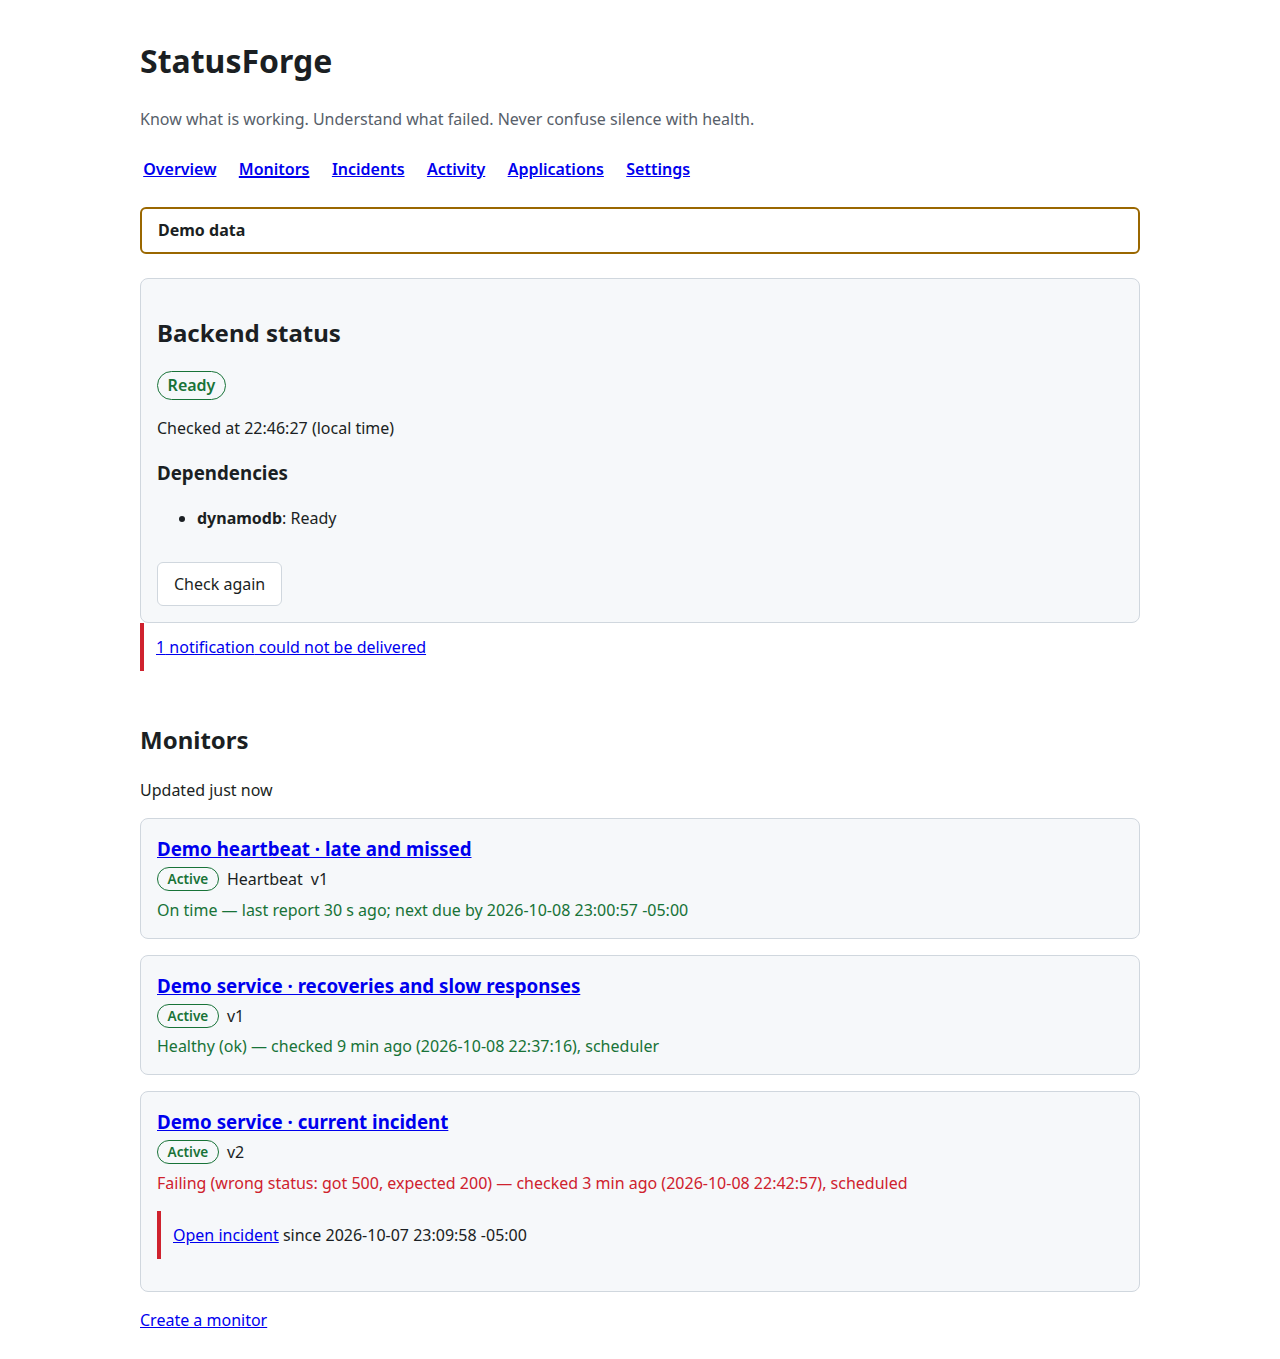
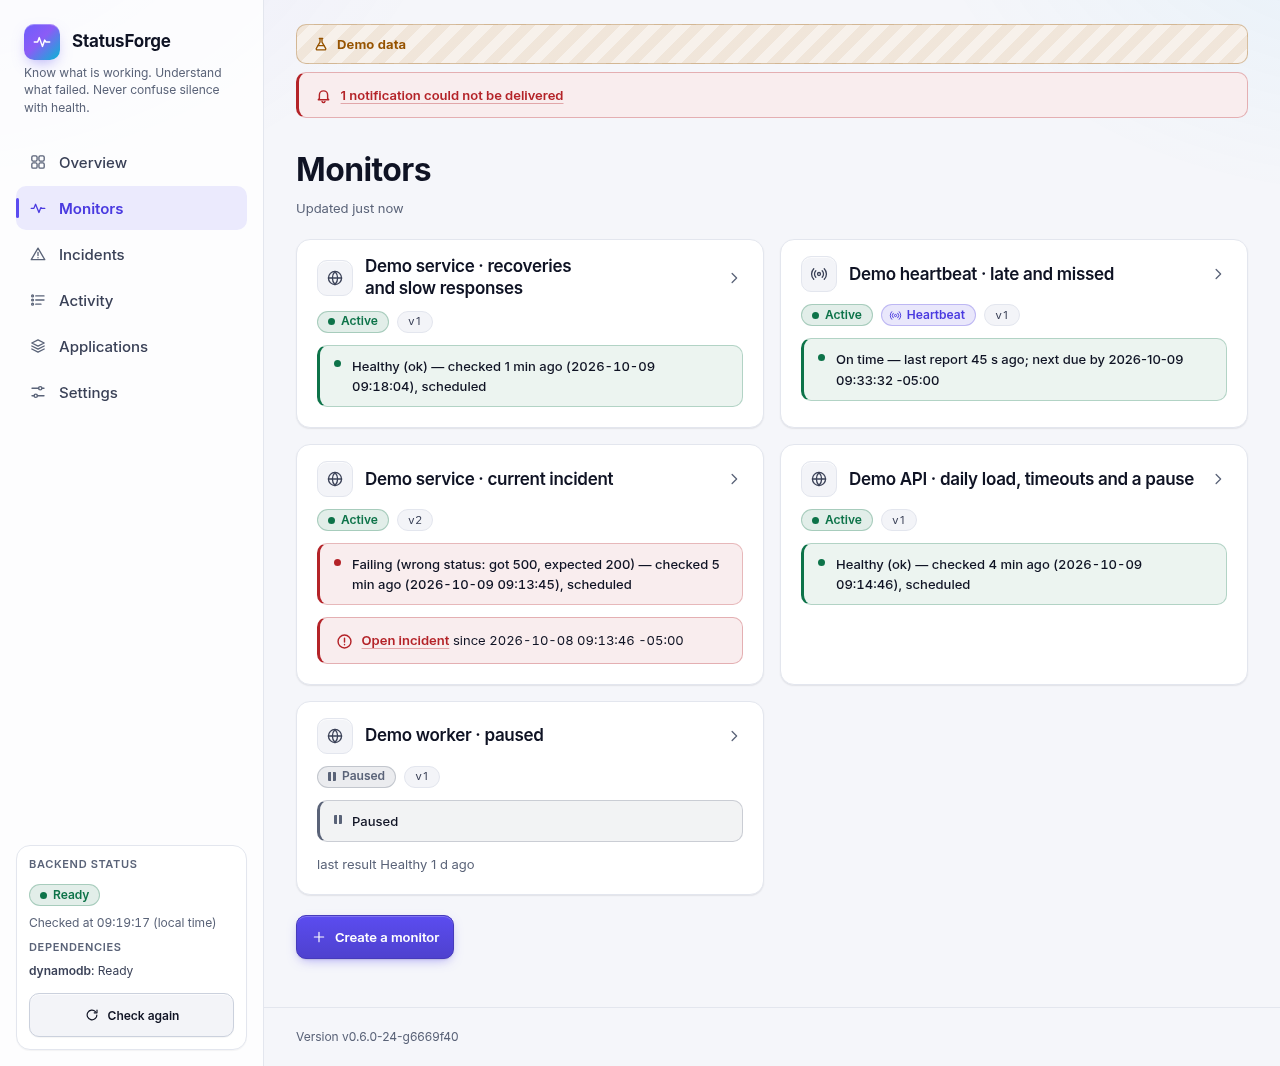
docs: refresh every screenshot and widen the gallery
Twenty captures of the new demo scene on the restyled client: the overview in
light and dark, monitor and incident detail, six distinct status and
response-time charts, monitors, heartbeat, incidents, a retried notification,
the application summary, the table view, a dark monitor summary, and three
390 px pages. The changelog records the web, demo and toolchain changes.

diff --git a/README.md b/README.md
@@ -15,7 +15,10 @@ report that period as healthy. Every scheduled check is a durable row that ends 
 an explicit **gap**; summaries count slots, not wall-clock time; "we did not hear from the job" is kept
 apart from "the job did not run". The [engineering notes](docs/engineering.md) walk through how.
 
-![Overview: a receive gap, an open incident, and a failed notification, all shown as what they are](docs/images/overview.png)
+<picture>
+  <source media="(prefers-color-scheme: dark)" srcset="docs/images/overview-dark.png">
+  <img src="docs/images/overview.png" alt="Overview: a receive gap, an open incident and a failed notification, each shown as what it is">
+</picture>
 
 ## Capabilities and boundaries
 
@@ -41,9 +44,12 @@ make setup   # .env from .env.example, Go modules, npm ci
 make demo    # seeds a separate demo table and runs UI + API + fixtures at http://127.0.0.1:8080/
 ```
 
-The demo shows seven days of synthetic history: healthy, failing and slow periods, a coverage gap, open and
-resolved incidents, delivered and failed notifications, a maintenance window, a heartbeat with late and
-missed reports, and an application with deployment markers. Every page carries a **Demo data** banner.
+The demo seeds seven days of synthetic history for one application with five monitors: three HTTP services with
+their own response-time profiles (a daily load cycle, spikes, a slow period), a worker that is paused now, and a
+heartbeat with irregular late and missed reports. It includes a resolved incident whose recovery notice the
+receiver rejected, an open incident after a deployment with its reminders, a maintenance window with a planned
+restart, isolated failures and timeouts below the incident threshold, a checker-problem burst, a paused span, and
+a coverage gap. A fixed seed makes every run look the same, and every page carries a **Demo data** banner.
 
 For your own data:
 
@@ -57,47 +63,57 @@ for the walkthrough, every configuration variable, and the heartbeat and deploym
 
 | Monitor detail with 7-day summary | Incident with notification history |
 | --- | --- |
-| ![Monitor detail](docs/images/monitor-detail.png) | ![Incident detail](docs/images/incident-detail.png) |
+| ![Seven-day summary of the demo API: 98 % of expected checks recorded, isolated failures, checker problems, a not-observed gap, a labelled paused span, and a response-time cycle below the 1200 ms check deadline](docs/images/monitor-detail.png) | ![Open incident after a deployment: opening evidence, failure summary, the nearby demo-2 deployment shown as context, and the opened notice and four reminders, all delivered](docs/images/incident-detail.png) |
 
 <details>
-<summary><strong>More screenshots</strong> (12): status windows and response times, monitors and heartbeats, incidents and notifications, applications, accessible tables, mobile</summary>
+<summary><strong>More screenshots</strong> (16): status history and response time, monitors and heartbeats, incidents and notifications, applications, accessible tables, dark scheme, narrow screens</summary>
 
 All captures show the built-in demo data (`make demo`).
 
-#### Status windows and response times
+#### Status history and response time
 
-![Seven-day status history of a demo HTTP monitor in 6-hour buckets: mostly healthy, with failing checks, a maintenance window and not-observed slots](docs/images/status-history-7d.png)
+![Seven-day status history of a demo HTTP monitor in 6-hour buckets: a three-hour incident, isolated failures, a not-observed gap and a maintenance window](docs/images/status-history-7d.png)
 
-![24-hour status history of a demo HTTP monitor in 1-hour buckets during an open incident: every bucket failing](docs/images/status-history-24h.png)
+![24-hour status history of the monitor with the open incident, in 1-hour buckets: every check failing](docs/images/status-history-24h.png)
 
-![Seven-day response-time chart with maximum and median lines: a 2.2 s spike in maximum response time, below the 3000 ms check deadline](docs/images/response-time-7d.png)
+![24-hour status history of the demo API: a shaded, labelled paused span with no expected checks, and one failed check](docs/images/status-history-paused-24h.png)
+
+![Seven-day response time with median and maximum lines: a 2.5 s spike in maximum response time, below the 3000 ms check deadline](docs/images/response-time-7d.png)
+
+![24-hour response time of the demo API: a rising and falling load cycle, with both lines broken while the monitor was paused](docs/images/response-time-24h.png)
+
+![Seven-day status history of a worker monitor created mid-week and paused a day later: checks between creation and the pause, then a labelled paused span](docs/images/paused-worker-7d.png)
 
 #### Monitors and heartbeats
 
-![Monitors list: an on-time heartbeat, a healthy HTTP monitor, and a failing HTTP monitor linked to its open incident](docs/images/monitors.png)
+![Monitors list: two healthy HTTP monitors, a failing one linked to its open incident, a paused worker, and an on-time heartbeat](docs/images/monitors.png)
 
-![Seven-day summary of a demo heartbeat: expected deadlines counted as on time, late or missed, with three late and three missed reports in the status history](docs/images/heartbeat-summary-7d.png)
+![Seven-day summary of the demo heartbeat: every expected deadline recorded, 680 on time, 22 late and 6 missed](docs/images/heartbeat-summary-7d.png)
 
 #### Incidents and notifications
 
-![Incidents page: an open incident, a resolved incident, and a failed notification that needs attention](docs/images/incidents.png)
+![Incidents page: an open incident with five delivered notifications, a resolved incident, and a failed notification that needs attention](docs/images/incidents.png)
 
-![Notifications of a resolved incident: the opened notification delivered; the resolved notification rejected with HTTP 400, then delivered by a manual retry](docs/images/notification-retry.png)
+![Notifications of a resolved incident: the opened notice delivered; the resolved notice rejected with HTTP 400, then delivered by a manual retry](docs/images/notification-retry.png)
 
 #### Applications
 
-![Demo application summary: three member monitors with their current health, one open incident, and the last recorded deployment](docs/images/application-summary.png)
+![Demo application summary: five member monitors with their current health (healthy, failing or paused), one open incident, and the last deployment marker](docs/images/application-summary.png)
 
 #### Accessible tables
 
-![Status history shown as a table instead of a chart: per-bucket expected, recorded, healthy, failing, checker-problem, not-observed, maintenance, not-counted, paused and receive-outage columns](docs/images/status-history-table.png)
+![Status history shown as a table instead of a chart: per-bucket expected, recorded, healthy, failing, checker-problem, not-observed, maintenance and not-counted counts, including a failing bucket and a checker-problem bucket](docs/images/status-history-table.png)
 
-#### Mobile (390 CSS px)
+#### Dark scheme
+
+![Seven-day monitor summary in the dark scheme: status bars with an incident, a maintenance window and a not-observed gap, and a response-time spike](docs/images/monitor-detail-dark.png)
+
+#### Narrow screens (390 CSS px)
 
 <p>
-<img src="docs/images/overview-mobile.png" alt="Overview on mobile: the Demo data banner, a StatusForge was not receiving gap, an open incident and a failed notification" width="260">
-<img src="docs/images/monitor-summary-mobile.png" alt="Seven-day monitor summary on mobile, with status-history and response-time charts" width="260">
-<img src="docs/images/incidents-mobile.png" alt="Incidents on mobile: open and resolved incidents and a failed notification" width="260">
+<img src="docs/images/overview-mobile.png" alt="Overview at 390 px: navigation, backend status, the Demo data banner, a receive gap, an open incident and a failed notification" width="260">
+<img src="docs/images/monitor-summary-mobile.png" alt="Seven-day summary of the failing monitor at 390 px, with status-history and response-time charts" width="260">
+<img src="docs/images/incidents-mobile.png" alt="Incidents at 390 px: open and resolved incidents and a failed notification" width="260">
 </p>
 
 </details>
@@ -181,3 +197,6 @@ Makefile            Every developer entry point (make help)
 
 Stack: Go 1.27 (stdlib HTTP, `aws-sdk-go-v2` DynamoDB client), React 19 + TypeScript + Vite + Recharts,
 DynamoDB Local 3.3.1, AWS CDK (synthesis only). MIT [LICENSE](LICENSE).
+
+The UI bundles the [Inter](https://github.com/rsms/inter) typeface by The Inter Project Authors under the SIL Open
+Font License 1.1 ([licence text](web/public/fonts/Inter-LICENSE.txt)).

diff --git a/CHANGELOG.md b/CHANGELOG.md
@@ -2,6 +2,41 @@
 
 ## Unreleased
 
+### Web client
+
+- The web client is restyled in light and dark schemes with a layered design system: design tokens and cascade
+  layers, a sidebar shell (a top header below 1024 px, a navigation grid below 520 px), card headers with icons,
+  tone rails, shape-coded state pills, and tables that stack on small screens. A "Skip to content" link moves focus
+  to the page heading. Wording, roles and behaviour are unchanged. Icons are self-authored inline SVG.
+- The monitor summary gets a segmented window control and a stat strip above the unchanged sentences. Its charts
+  gain patterned stacked status bars, labelled outage and paused bands, a latency chart with a gradient median
+  area, an isolated-point marker and a labelled check deadline, and token-coloured tooltips. The chart code is
+  still a separate lazy chunk.
+- Summary charts shade a paused span and a touching receive outage separately, each in its own tone with its own
+  "Paused" or "Outage" label. They were merged into one outage-coloured "Outage + pause" band, which painted paused
+  time as an outage. Band labels now stack in rows, so nearby labels never cover each other or the check-deadline
+  label.
+- The UI bundles the Inter variable font (`@fontsource-variable/inter`, SIL Open Font License 1.1) as same-origin
+  woff2 files, so it renders the same on every OS. Vite never inlines font files, so the CSP's `font-src 'self'`
+  holds. The licence text ships at `/fonts/Inter-LICENSE.txt`, and `licence-exceptions.json` records the reasoned
+  `OFL-1.1` exception.
+
+### Demo
+
+- `make demo` seeds a varied week: five monitors in one application, per-service response-time profiles with daily
+  cycles and spikes, isolated failures and timeouts below the incident threshold, a checker-problem burst, a past
+  pause, a worker that is paused now, and irregular late and missed heartbeats. A fixed seed keeps the scene the
+  same on every run, and the seed fails unless its self-check finds every feature. Seeded error responses carry the
+  checker's own `wrong_status` reason, so they count as latency samples, as live ones do. The open incident gets
+  its reminders as the live scheduler would send them (every 6 h by default). Seeding takes about four and a half
+  minutes.
+- The README shows twenty new captures of that scene, including dark-scheme and 390 px views.
+
+### Toolchain
+
+- Local setup asks for the newest Go 1.27 patch, the one CI installs. On go1.27.1, `govulncheck` in
+  `make security-check` reports four standard-library `net/http` advisories fixed in 1.27.2.
+
 ### Cloud path (code and synthesis only; nothing deployed)
 
 - `lambda-planner` and `lambda-worker` binaries (`make lambda-build`, linux/arm64) reuse the store and domain
